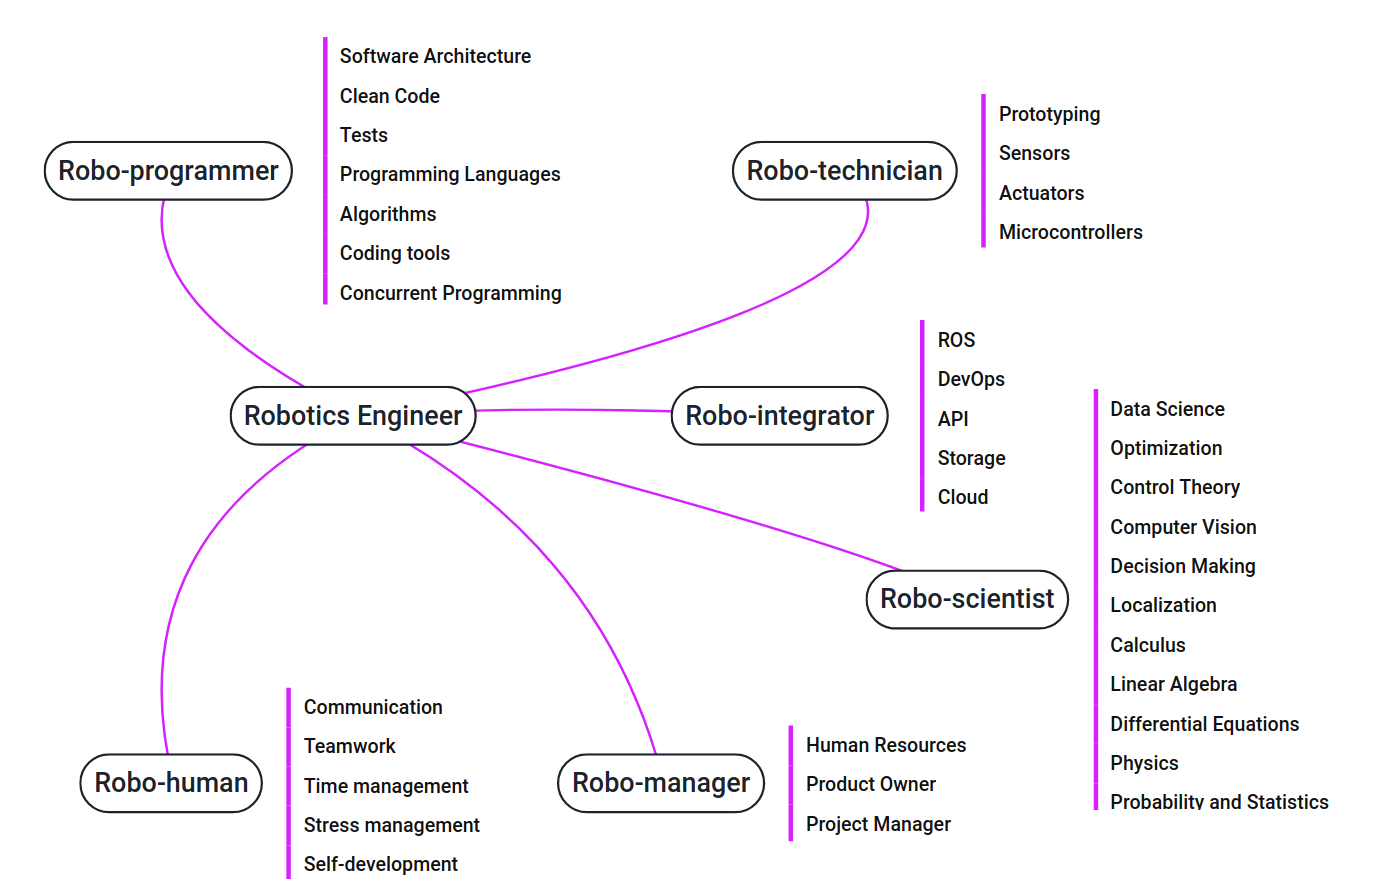
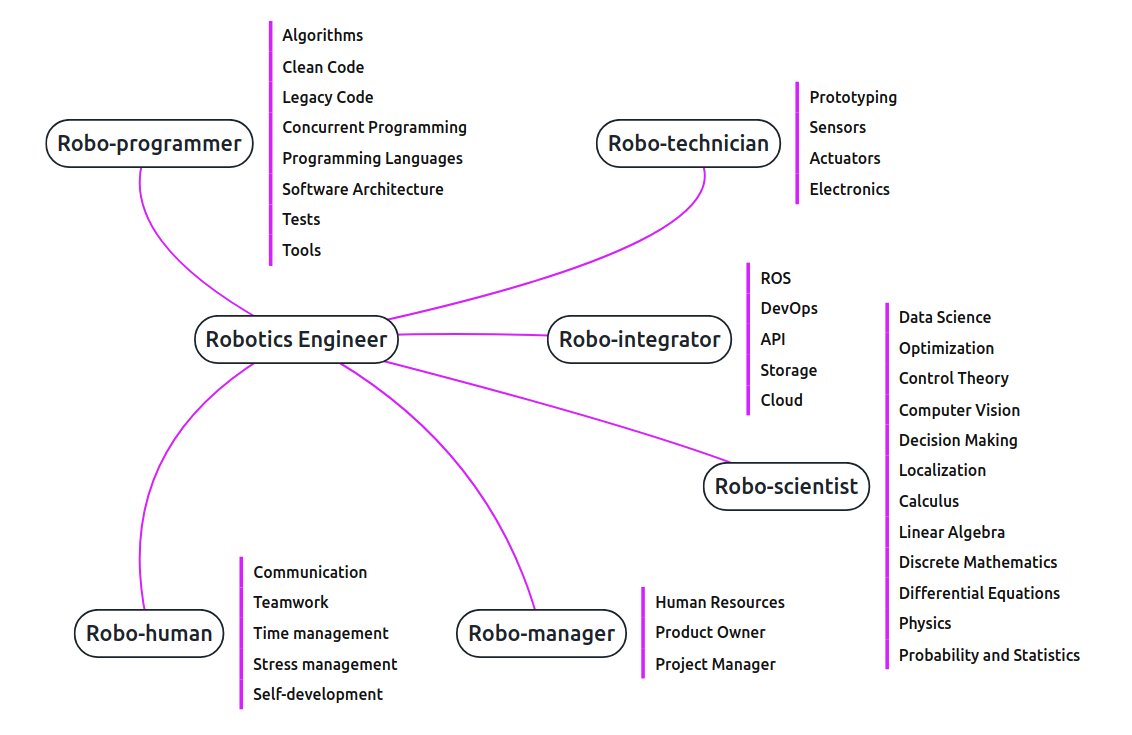
Add robo-programmer content

diff --git a/src/.vuepress/config.js b/src/.vuepress/config.js
@@ -90,10 +90,10 @@ const
             '/':
             {
                 label: "English",
-                repo: '',
-                editLinks: false,
+                repo: 'Sarrasor/RoboticsRoadmap',
+                editLinks: true,
+                editLinkText: 'Help to improve this page',
                 docsDir: 'roadmap',
-                editLinkText: '',
                 lastUpdated: true,
                 nav: [
                     {

diff --git a/LICENSE.md b/LICENSE.md
@@ -1,0 +1,173 @@
+## Creative Commons
+
+# Attribution-ShareAlike 4.0 International
+
+Creative Commons Corporation (“Creative Commons”) is not a law firm and does not provide legal services or legal advice. Distribution of Creative Commons public licenses does not create a lawyer-client or other relationship. Creative Commons makes its licenses and related information available on an “as-is” basis. Creative Commons gives no warranties regarding its licenses, any material licensed under their terms and conditions, or any related information. Creative Commons disclaims all liability for damages resulting from their use to the fullest extent possible.
+
+### Using Creative Commons Public Licenses
+
+Creative Commons public licenses provide a standard set of terms and conditions that creators and other rights holders may use to share original works of authorship and other material subject to copyright and certain other rights specified in the public license below. The following considerations are for informational purposes only, are not exhaustive, and do not form part of our licenses.
+
+* __Considerations for licensors:__ Our public licenses are intended for use by those authorized to give the public permission to use material in ways otherwise restricted by copyright and certain other rights. Our licenses are irrevocable. Licensors should read and understand the terms and conditions of the license they choose before applying it. Licensors should also secure all rights necessary before applying our licenses so that the public can reuse the material as expected. Licensors should clearly mark any material not subject to the license. This includes other CC-licensed material, or material used under an exception or limitation to copyright. [More considerations for licensors](http://wiki.creativecommons.org/Considerations_for_licensors_and_licensees#Considerations_for_licensors).
+
+* __Considerations for the public:__ By using one of our public licenses, a licensor grants the public permission to use the licensed material under specified terms and conditions. If the licensor’s permission is not necessary for any reason–for example, because of any applicable exception or limitation to copyright–then that use is not regulated by the license. Our licenses grant only permissions under copyright and certain other rights that a licensor has authority to grant. Use of the licensed material may still be restricted for other reasons, including because others have copyright or other rights in the material. A licensor may make special requests, such as asking that all changes be marked or described. Although not required by our licenses, you are encouraged to respect those requests where reasonable. [More considerations for the public](http://wiki.creativecommons.org/Considerations_for_licensors_and_licensees#Considerations_for_licensees).
+
+## Creative Commons Attribution-ShareAlike 4.0 International Public License
+
+By exercising the Licensed Rights (defined below), You accept and agree to be bound by the terms and conditions of this Creative Commons Attribution-ShareAlike 4.0 International Public License ("Public License"). To the extent this Public License may be interpreted as a contract, You are granted the Licensed Rights in consideration of Your acceptance of these terms and conditions, and the Licensor grants You such rights in consideration of benefits the Licensor receives from making the Licensed Material available under these terms and conditions.
+
+### Section 1 – Definitions.
+
+a. __Adapted Material__ means material subject to Copyright and Similar Rights that is derived from or based upon the Licensed Material and in which the Licensed Material is translated, altered, arranged, transformed, or otherwise modified in a manner requiring permission under the Copyright and Similar Rights held by the Licensor. For purposes of this Public License, where the Licensed Material is a musical work, performance, or sound recording, Adapted Material is always produced where the Licensed Material is synched in timed relation with a moving image.
+
+b. __Adapter's License__ means the license You apply to Your Copyright and Similar Rights in Your contributions to Adapted Material in accordance with the terms and conditions of this Public License.
+
+c. __BY-SA Compatible License__ means a license listed at [creativecommons.org/compatiblelicenses](http://creativecommons.org/compatiblelicenses), approved by Creative Commons as essentially the equivalent of this Public License.
+
+d. __Copyright and Similar Rights__ means copyright and/or similar rights closely related to copyright including, without limitation, performance, broadcast, sound recording, and Sui Generis Database Rights, without regard to how the rights are labeled or categorized. For purposes of this Public License, the rights specified in Section 2(b)(1)-(2) are not Copyright and Similar Rights.
+
+e. __Effective Technological Measures__ means those measures that, in the absence of proper authority, may not be circumvented under laws fulfilling obligations under Article 11 of the WIPO Copyright Treaty adopted on December 20, 1996, and/or similar international agreements.
+
+f. __Exceptions and Limitations__ means fair use, fair dealing, and/or any other exception or limitation to Copyright and Similar Rights that applies to Your use of the Licensed Material.
+
+g. __License Elements__ means the license attributes listed in the name of a Creative Commons Public License. The License Elements of this Public License are Attribution and ShareAlike.
+
+h. __Licensed Material__ means the artistic or literary work, database, or other material to which the Licensor applied this Public License.
+
+i. __Licensed Rights__ means the rights granted to You subject to the terms and conditions of this Public License, which are limited to all Copyright and Similar Rights that apply to Your use of the Licensed Material and that the Licensor has authority to license.
+
+j. __Licensor__ means the individual(s) or entity(ies) granting rights under this Public License.
+
+k. __Share__ means to provide material to the public by any means or process that requires permission under the Licensed Rights, such as reproduction, public display, public performance, distribution, dissemination, communication, or importation, and to make material available to the public including in ways that members of the public may access the material from a place and at a time individually chosen by them.
+
+l. __Sui Generis Database Rights__ means rights other than copyright resulting from Directive 96/9/EC of the European Parliament and of the Council of 11 March 1996 on the legal protection of databases, as amended and/or succeeded, as well as other essentially equivalent rights anywhere in the world.
+
+m. __You__ means the individual or entity exercising the Licensed Rights under this Public License. Your has a corresponding meaning.
+
+### Section 2 – Scope.
+
+a. ___License grant.___
+
+    1. Subject to the terms and conditions of this Public License, the Licensor hereby grants You a worldwide, royalty-free, non-sublicensable, non-exclusive, irrevocable license to exercise the Licensed Rights in the Licensed Material to:
+
+        A. reproduce and Share the Licensed Material, in whole or in part; and
+
+        B. produce, reproduce, and Share Adapted Material.
+
+  2. __Exceptions and Limitations.__ For the avoidance of doubt, where Exceptions and Limitations apply to Your use, this Public License does not apply, and You do not need to comply with its terms and conditions.
+
+  3. __Term.__ The term of this Public License is specified in Section 6(a).
+
+  4. __Media and formats; technical modifications allowed.__ The Licensor authorizes You to exercise the Licensed Rights in all media and formats whether now known or hereafter created, and to make technical modifications necessary to do so. The Licensor waives and/or agrees not to assert any right or authority to forbid You from making technical modifications necessary to exercise the Licensed Rights, including technical modifications necessary to circumvent Effective Technological Measures. For purposes of this Public License, simply making modifications authorized by this Section 2(a)(4) never produces Adapted Material.
+
+    5. __Downstream recipients.__
+
+        A. __Offer from the Licensor – Licensed Material.__ Every recipient of the Licensed Material automatically receives an offer from the Licensor to exercise the Licensed Rights under the terms and conditions of this Public License.
+
+        B. __Additional offer from the Licensor – Adapted Material.__ Every recipient of Adapted Material from You automatically receives an offer from the Licensor to exercise the Licensed Rights in the Adapted Material under the conditions of the Adapter’s License You apply.
+
+      C. __No downstream restrictions.__ You may not offer or impose any additional or different terms or conditions on, or apply any Effective Technological Measures to, the Licensed Material if doing so restricts exercise of the Licensed Rights by any recipient of the Licensed Material.
+
+    6. __No endorsement.__ Nothing in this Public License constitutes or may be construed as permission to assert or imply that You are, or that Your use of the Licensed Material is, connected with, or sponsored, endorsed, or granted official status by, the Licensor or others designated to receive attribution as provided in Section 3(a)(1)(A)(i).
+
+b. ___Other rights.___
+
+    1. Moral rights, such as the right of integrity, are not licensed under this Public License, nor are publicity, privacy, and/or other similar personality rights; however, to the extent possible, the Licensor waives and/or agrees not to assert any such rights held by the Licensor to the limited extent necessary to allow You to exercise the Licensed Rights, but not otherwise.
+
+    2. Patent and trademark rights are not licensed under this Public License.
+
+    3. To the extent possible, the Licensor waives any right to collect royalties from You for the exercise of the Licensed Rights, whether directly or through a collecting society under any voluntary or waivable statutory or compulsory licensing scheme. In all other cases the Licensor expressly reserves any right to collect such royalties.
+
+### Section 3 – License Conditions.
+
+Your exercise of the Licensed Rights is expressly made subject to the following conditions.
+
+a. ___Attribution.___
+
+    1. If You Share the Licensed Material (including in modified form), You must:
+
+        A. retain the following if it is supplied by the Licensor with the Licensed Material:
+
+          i. identification of the creator(s) of the Licensed Material and any others designated to receive attribution, in any reasonable manner requested by the Licensor (including by pseudonym if designated);
+
+          ii. a copyright notice;
+
+          iii. a notice that refers to this Public License;
+
+          iv. a notice that refers to the disclaimer of warranties;
+
+          v. a URI or hyperlink to the Licensed Material to the extent reasonably practicable;
+
+        B. indicate if You modified the Licensed Material and retain an indication of any previous modifications; and
+
+        C. indicate the Licensed Material is licensed under this Public License, and include the text of, or the URI or hyperlink to, this Public License.
+
+    2. You may satisfy the conditions in Section 3(a)(1) in any reasonable manner based on the medium, means, and context in which You Share the Licensed Material. For example, it may be reasonable to satisfy the conditions by providing a URI or hyperlink to a resource that includes the required information.
+
+    3. If requested by the Licensor, You must remove any of the information required by Section 3(a)(1)(A) to the extent reasonably practicable.
+
+b. ___ShareAlike.___
+
+In addition to the conditions in Section 3(a), if You Share Adapted Material You produce, the following conditions also apply.
+
+1. The Adapter’s License You apply must be a Creative Commons license with the same License Elements, this version or later, or a BY-SA Compatible License.
+
+2. You must include the text of, or the URI or hyperlink to, the Adapter's License You apply. You may satisfy this condition in any reasonable manner based on the medium, means, and context in which You Share Adapted Material.
+
+3. You may not offer or impose any additional or different terms or conditions on, or apply any Effective Technological Measures to, Adapted Material that restrict exercise of the rights granted under the Adapter's License You apply.
+
+### Section 4 – Sui Generis Database Rights.
+
+Where the Licensed Rights include Sui Generis Database Rights that apply to Your use of the Licensed Material:
+
+a. for the avoidance of doubt, Section 2(a)(1) grants You the right to extract, reuse, reproduce, and Share all or a substantial portion of the contents of the database;
+
+b. if You include all or a substantial portion of the database contents in a database in which You have Sui Generis Database Rights, then the database in which You have Sui Generis Database Rights (but not its individual contents) is Adapted Material, including for purposes of Section 3(b); and
+
+c. You must comply with the conditions in Section 3(a) if You Share all or a substantial portion of the contents of the database.
+
+For the avoidance of doubt, this Section 4 supplements and does not replace Your obligations under this Public License where the Licensed Rights include other Copyright and Similar Rights.
+
+### Section 5 – Disclaimer of Warranties and Limitation of Liability.
+
+a. __Unless otherwise separately undertaken by the Licensor, to the extent possible, the Licensor offers the Licensed Material as-is and as-available, and makes no representations or warranties of any kind concerning the Licensed Material, whether express, implied, statutory, or other. This includes, without limitation, warranties of title, merchantability, fitness for a particular purpose, non-infringement, absence of latent or other defects, accuracy, or the presence or absence of errors, whether or not known or discoverable. Where disclaimers of warranties are not allowed in full or in part, this disclaimer may not apply to You.__
+
+b. __To the extent possible, in no event will the Licensor be liable to You on any legal theory (including, without limitation, negligence) or otherwise for any direct, special, indirect, incidental, consequential, punitive, exemplary, or other losses, costs, expenses, or damages arising out of this Public License or use of the Licensed Material, even if the Licensor has been advised of the possibility of such losses, costs, expenses, or damages. Where a limitation of liability is not allowed in full or in part, this limitation may not apply to You.__
+
+c. The disclaimer of warranties and limitation of liability provided above shall be interpreted in a manner that, to the extent possible, most closely approximates an absolute disclaimer and waiver of all liability.
+
+### Section 6 – Term and Termination.
+
+a. This Public License applies for the term of the Copyright and Similar Rights licensed here. However, if You fail to comply with this Public License, then Your rights under this Public License terminate automatically.
+
+b. Where Your right to use the Licensed Material has terminated under Section 6(a), it reinstates:
+
+  1. automatically as of the date the violation is cured, provided it is cured within 30 days of Your discovery of the violation; or
+
+  2. upon express reinstatement by the Licensor.
+
+  For the avoidance of doubt, this Section 6(b) does not affect any right the Licensor may have to seek remedies for Your violations of this Public License.
+
+c. For the avoidance of doubt, the Licensor may also offer the Licensed Material under separate terms or conditions or stop distributing the Licensed Material at any time; however, doing so will not terminate this Public License.
+
+d. Sections 1, 5, 6, 7, and 8 survive termination of this Public License.
+
+### Section 7 – Other Terms and Conditions.
+
+a. The Licensor shall not be bound by any additional or different terms or conditions communicated by You unless expressly agreed.
+
+b. Any arrangements, understandings, or agreements regarding the Licensed Material not stated herein are separate from and independent of the terms and conditions of this Public License.
+
+### Section 8 – Interpretation.
+
+a. For the avoidance of doubt, this Public License does not, and shall not be interpreted to, reduce, limit, restrict, or impose conditions on any use of the Licensed Material that could lawfully be made without permission under this Public License.
+
+b. To the extent possible, if any provision of this Public License is deemed unenforceable, it shall be automatically reformed to the minimum extent necessary to make it enforceable. If the provision cannot be reformed, it shall be severed from this Public License without affecting the enforceability of the remaining terms and conditions.
+
+c. No term or condition of this Public License will be waived and no failure to comply consented to unless expressly agreed to by the Licensor.
+
+d. Nothing in this Public License constitutes or may be interpreted as a limitation upon, or waiver of, any privileges and immunities that apply to the Licensor or You, including from the legal processes of any jurisdiction or authority.
+
+> Creative Commons is not a party to its public licenses. Notwithstanding, Creative Commons may elect to apply one of its public licenses to material it publishes and in those instances will be considered the “Licensor.” The text of the Creative Commons public licenses is dedicated to the public domain under the [CC0 Public Domain Dedication](https://creativecommons.org/publicdomain/zero/1.0/legalcode). Except for the limited purpose of indicating that material is shared under a Creative Commons public license or as otherwise permitted by the Creative Commons policies published at [creativecommons.org/policies](http://creativecommons.org/policies), Creative Commons does not authorize the use of the trademark “Creative Commons” or any other trademark or logo of Creative Commons without its prior written consent including, without limitation, in connection with any unauthorized modifications to any of its public licenses or any other arrangements, understandings, or agreements concerning use of licensed material. For the avoidance of doubt, this paragraph does not form part of the public licenses.
+>
+> Creative Commons may be contacted at creativecommons.org.

diff --git a/src/roadmap/robo_programmer/algorithms/index.md b/src/roadmap/robo_programmer/algorithms/index.md
@@ -20,10 +20,12 @@ An algorithm must be seen to be believed © **Donald Knuth**
 <Buzzword text="Stack" search_postfix="Data Structure"/>
 <Buzzword text="Heap" search_postfix="Data Structure"/>
 <Buzzword text="Binary Search Tree"/>
+<Buzzword text="Trie"/>
 <Buzzword text="AVL Tree"/>
 <Buzzword text="Red-Black Tree"/>
 <Buzzword text="B-Tree"/>
 <Buzzword text="Hash Table"/>
+<Buzzword text="Bloom filter"/>
 <Buzzword text="Set" search_postfix="Data Structure"/>
 <Buzzword text="Quicksort"/>
 <Buzzword text="Merge Sort"/>
@@ -32,6 +34,9 @@ An algorithm must be seen to be believed © **Donald Knuth**
 <Buzzword text="Dijkstra's Algorithm"/>
 <Buzzword text="Greedy Algorithms"/>
 <Buzzword text="Dynamic Programming"/>
+<Buzzword text="Two Pointers"/>
+<Buzzword text="Backtracking"/>
+
 
 ## Data Structures
 
@@ -56,9 +61,19 @@ Every data structure and every algorithm have their strengths and weaknesses
 
 You can utilize Big-O notation - mathematical way of describing performance of data structures and algorithms
 
+## Whiteboard Coding
+
+Very common practice on coding interviews these days. The task is to solve a programming problem using a whiteboard instead of an IDE
+
 ## Links
 
 ### Books
 - [Grokking Algorithms](https://www.goodreads.com/book/show/22847284-grokking-algorithms-an-illustrated-guide-for-programmers-and-other-curio)
 
 - [Introduction to Algorithms](https://www.goodreads.com/book/show/108986.Introduction_to_Algorithms)
+
+- [Cracking the Coding Interview: 189 Programming Questions and Solutions](https://www.goodreads.com/book/show/54845619-cracking-the-coding-interview)
+
+### Websites
+
+- [LeetCode: Algorithm implementation practice](https://leetcode.com/)

diff --git a/src/roadmap/robo_programmer/languages/index.md b/src/roadmap/robo_programmer/languages/index.md
@@ -1,3 +1,12 @@
+---
+tags:
+  - python
+  - c++
+  - c
+  - matlab
+  - cuda
+---
+
 # Programming Languages
 
 ::: block Quote
@@ -32,6 +41,19 @@ Your choice when you need to have something performing blazing-fast
 
 You should know the **S**tandard **T**emplate **L**ibrary (STL). Basically, it is efficient implementation of common data structures and algorithms. [Check out](../algorithms/) what algorithms and data structures it's good to know
 
+Here are several must-know concepts for a C++ programmer:
+
+- Program Compilation and Linking, Dynamic Libraries
+- C++ memory model
+- Move Semantics
+- The rule of three (five)
+- RAII
+- Smart Pointers
+- Iterator Invalidation
+- Polymorphism, Inheritance, Virtual Methods
+- Overloading, Operator overloading
+- Templates
+
 ## C
 
 Want to rule hardware? C is the right choice for you. Motor drivers, microcontrollers
@@ -45,6 +67,12 @@ If you want to use the power of GPU's parallel computation, you can go with CUDA
 ### Books
 
 - [The C Programming Language](https://www.goodreads.com/book/show/515601.The_C_Programming_Language)
+
+- [The C++ Programming Language](https://www.goodreads.com/book/show/112251.The_C_Programming_Language)
+
+- [Effective C++: 55 Specific Ways to Improve Your Programs and Designs](https://www.goodreads.com/book/show/105125.Effective_C_)
+
+- [Learning Python](https://www.goodreads.com/book/show/80435.Learning_Python)
 
 ### Articles
 

diff --git a/src/roadmap/robo_programmer/concurrent_programming/index.md b/src/roadmap/robo_programmer/concurrent_programming/index.md
@@ -13,18 +13,27 @@ The way the processor industry is going, is to add more and more cores, but nobo
 
 <Buzzword text="Thread"/>
 <Buzzword text="Parallel computation"/>
+<Buzzword text="Lock-free programming"/>
+<Buzzword text="Blocking call"/>
+<Buzzword text="Non-Blocking call"/>
 <Buzzword text="Multithreading"/>
 <Buzzword text="GPU"/>
 <Buzzword text="TPU"/>
-<Buzzword text="Fork process"/>
+<Buzzword text="Fork" search_postfix="system call"/>
+<Buzzword text="Race condition"/>
 <Buzzword text="Producer-Consumer"/>
 <Buzzword text="Dinning philosophers"/>
+<Buzzword text="Deadlock"/>
+<Buzzword text="Mutex"/>
+<Buzzword text="Synchronization" search_postfix="Computer Science"/>
 
 ## Links
 
 ### Articles
 
 - [A Tutorial on Multithreading and Concurrency in C++](https://www.educative.io/blog/modern-multithreading-and-concurrency-in-cpp)
+
+- [An Introduction to Lock-Free Programming](https://preshing.com/20120612/an-introduction-to-lock-free-programming/)
 
 ### Repositories
 
@@ -34,3 +43,5 @@ The way the processor industry is going, is to add more and more cores, but nobo
 ### Books
 
 - [C++ Concurrency in Action: Practical Multithreading](https://www.cplusplusconcurrencyinaction.com/)
+
+- [Modern Operating Systems](https://www.goodreads.com/book/show/166195.Modern_Operating_Systems)

diff --git a/README.md b/README.md
@@ -1,6 +1,46 @@
 # RoboticsRoadmap
 Roadmap with skills for a full-stack Robotics engineer
 
-Check out the [website](https://sarrasor.github.io/RoboticsRoadmap/)
+**Check out the [website](https://sarrasor.github.io/RoboticsRoadmap/)**
 
 ![Roadmap](./images/map.png)
+
+
+## How to run locally
+
+### Requirements
+
+- [Node.js 10+](https://nodejs.org/en/)
+- [Yarn Classic](https://classic.yarnpkg.com/en/)
+
+### Commands
+
+Open terminal and type these commands:
+
+```
+git clone https://github.com/Sarrasor/RoboticsRoadmap.git
+cd ./RoboticsRoadmap
+yarn dev
+```
+
+Now you can go to `http://localhost:8080/` to see the website. All changes you make to the code will appear on the website dynamically
+
+## How to contribute
+
+1. Run the environment locally
+2. Make your awesome changes
+3. Run tests and visually examine your changes on `http://localhost:8080/`
+4. Submit a Pool Request
+5. Wait for the review
+
+### TODO
+
+- [ ] Automatic tests
+	- [ ] Spell checker
+	- [ ] Link checker
+- [ ] Automatic mindmap generation
+- [ ] Automatic table of contents generation
+- [ ] Automatic GitHub Pages deploy on push to main
+- [ ] Branch explanations
+- [ ] Section explanations
+- [ ] Usage guides

diff --git a/src/roadmap/robo_programmer/clean_code/index.md b/src/roadmap/robo_programmer/clean_code/index.md
@@ -58,9 +58,15 @@ In case you need to select a code style for your team, [here](https://google.git
 
 - [Clean Code. Uncle Bob](https://www.goodreads.com/book/show/3735293-clean-code)
 
+- [The Pragmatic Programmer: From Journeyman to Master](https://www.goodreads.com/book/show/4099.The_Pragmatic_Programmer)
+
 - [Design Patterns. GoF](https://www.goodreads.com/book/show/85009.Design_Patterns)
 
 - [Refactoring: Improving the Design of Existing Code. Martin Fowler](https://www.goodreads.com/book/show/44936.Refactoring)
+
+### Website
+
+- [Refactoring Guru](https://refactoring.guru/refactoring)
 
 ### Articles
 

diff --git a/src/roadmap/robo_programmer/software_architecture/index.md b/src/roadmap/robo_programmer/software_architecture/index.md
@@ -10,6 +10,7 @@ If you think good architecture is expensive, try bad architecture © **Brian Foo
 <Buzzword text="Monolithic application"/>
 <Buzzword text="Business Logic"/>
 <Buzzword text="Model-View-Controller"/>
+<Buzzword text="Test plan"/>
 
 ## Links
 

diff --git a/src/roadmap/robo_programmer/legacy_code/index.md b/src/roadmap/robo_programmer/legacy_code/index.md
@@ -1,3 +1,8 @@
+---
+tags:
+  - debugger
+---
+
 # Legacy code
 
 ![Code quality measure](./images/wtf_pm.png)
